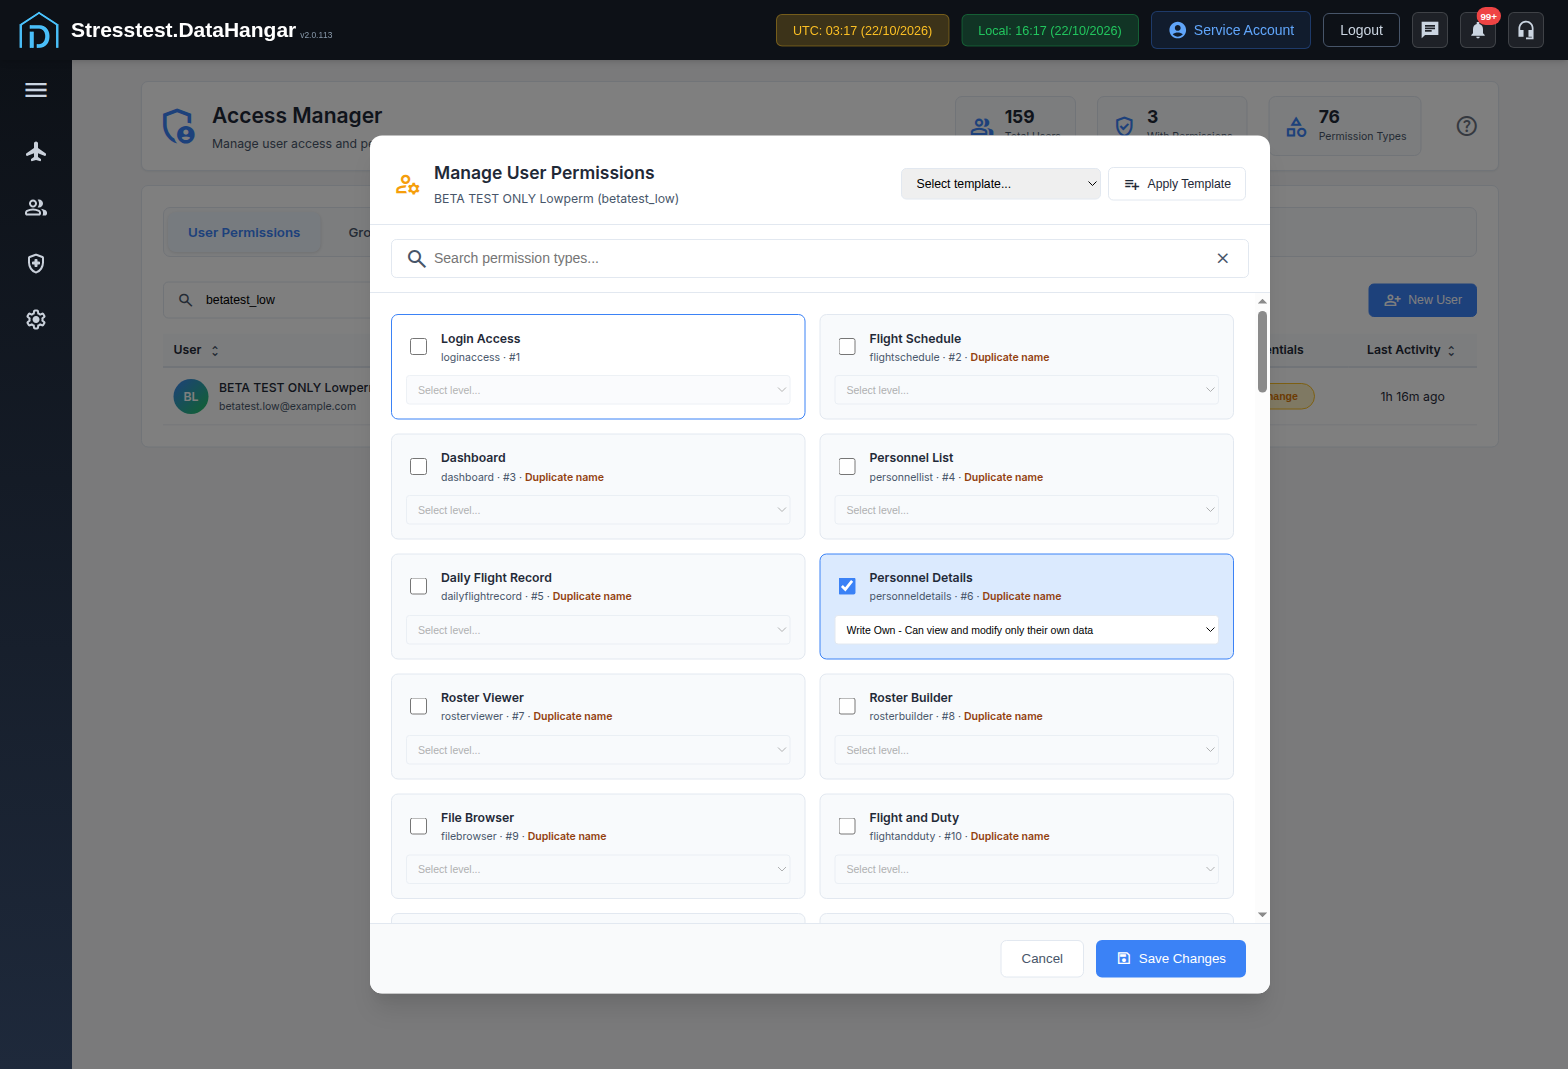
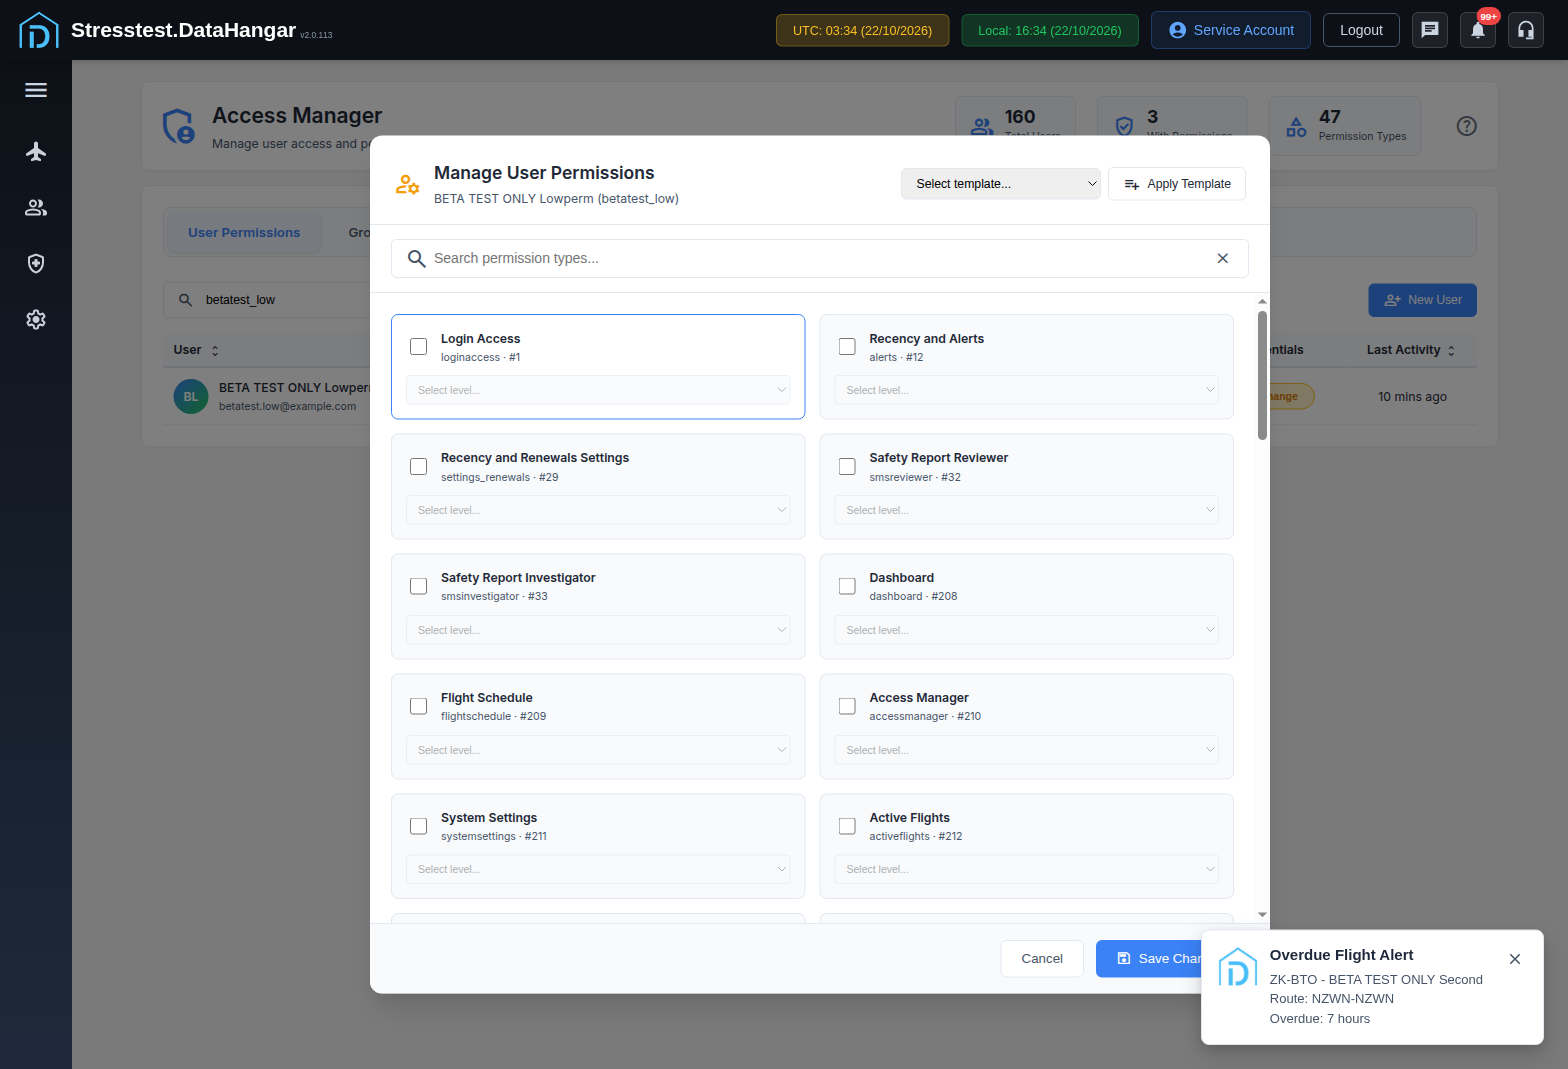
Access Manager retest 2: BUG-AM-005 duplicates removed, AM-018 passes

diff --git a/debugging/REPORT.md b/debugging/REPORT.md
@@ -1,6 +1,6 @@
 # DataHangar test run report (stresstest, v2.0.111)
 
-Generated from the checklist results and bug files on this branch. Testing is finished; see [TRACKER.md](TRACKER.md) for coverage (575 pass, 167 fail, 28 blocked, 19 N/A).
+Generated from the checklist results and bug files on this branch. Testing is finished; see [TRACKER.md](TRACKER.md) for coverage (576 pass, 166 fail, 28 blocked, 19 N/A).
 
 ## Summary
 
@@ -424,7 +424,7 @@ Steps:
 
 Expected: Each permission type shows once, or the cards are named or grouped clearly enough to tell them apart.
 
-Actual: 16 names are shown more than once, with no heading or hint to tell them apart: Flight Schedule (ids 2, 209), Dashboard (3, 208), Personnel List (4, 215), Daily Flight Record (5, 213), Personnel Details (6, 216), Roster Viewer (7, 217), Roster Builder (8, 223), File Browser (9, 225), Flight and Duty (10, 31, 218), Notices (11, 219), Safety Reports (13, 30, 221), Hazard Register (14, 222), System Settings (15, 211), Form Builder (16, 224), Exam Builder (18, 232), Access Manager (34, 210). The copies offer different levels: Flight Schedule id 2 offers RA/WA/G, id 209 offers A/RA/WG/RG. An admin can easily give the wrong one. This has a real effect: giving Lowperm the first "Notices" card (id 11) at WO still gives "Access Denied: You do not have permission to access Notices", so the module checks the other Notices card. The first "Flight Schedule" card (id 2) is the one that works for the schedule, so you cannot tell from the name which copy each page uses. Also, BETA TEST ONLY Second with Access Manager WA on one card and A on the other still gets 'You need All Access permission to access the access manager' (AM-018). Retest 22/10/2026 (v2.0.113, accessmanager/index.js?v=2.0.113): part fixed. Each card now shows its module key and id plus a 'Duplicate name' tag (e.g. 'accessmanager · #34 · Duplicate name' and 'accessmanager · #210 · Duplicate name'). But the same 16 names are still duplicated, and both copies show the same module key, so you still can't tell which one the module checks. AM-018 still fails: betatest_two has Access Manager #34=WA and #210=A and still gets 'Access Denied: You need All Access permission to access the access manager'.
+Actual: 16 names are shown more than once, with no heading or hint to tell them apart: Flight Schedule (ids 2, 209), Dashboard (3, 208), Personnel List (4, 215), Daily Flight Record (5, 213), Personnel Details (6, 216), Roster Viewer (7, 217), Roster Builder (8, 223), File Browser (9, 225), Flight and Duty (10, 31, 218), Notices (11, 219), Safety Reports (13, 30, 221), Hazard Register (14, 222), System Settings (15, 211), Form Builder (16, 224), Exam Builder (18, 232), Access Manager (34, 210). The copies offer different levels: Flight Schedule id 2 offers RA/WA/G, id 209 offers A/RA/WG/RG. An admin can easily give the wrong one. This has a real effect: giving Lowperm the first "Notices" card (id 11) at WO still gives "Access Denied: You do not have permission to access Notices", so the module checks the other Notices card. The first "Flight Schedule" card (id 2) is the one that works for the schedule, so you cannot tell from the name which copy each page uses. Also, BETA TEST ONLY Second with Access Manager WA on one card and A on the other still gets 'You need All Access permission to access the access manager' (AM-018). Retest 22/10/2026 (v2.0.113, accessmanager/index.js?v=2.0.113): part fixed. Each card now shows its module key and id plus a 'Duplicate name' tag (e.g. 'accessmanager · #34 · Duplicate name' and 'accessmanager · #210 · Duplicate name'). But the same 16 names are still duplicated, and both copies show the same module key, so you still can't tell which one the module checks. AM-018 still fails: betatest_two has Access Manager #34=WA and #210=A and still gets 'Access Denied: You need All Access permission to access the access manager'. Retest 2 22/10/2026 (v2.0.113): fixed. The permissions editor now has 47 cards (was 76), with no duplicate names or module keys; the 29 old ids (2-11, 13-28, 30, 31, 34) are gone and each module has one card (e.g. accessmanager #210, notices #219, flightschedule #209). AM-018 now passes: betatest_two (Access Manager #210=A) opens Access Manager, and in Roles the Admin checkbox is disabled ('Only admins can grant admin access'). betatest_grp still opens Flight Schedule, Notices, Roster Viewer and Daily Flight Record after the cleanup.
 
 Suspected cause: The permission types table has more than one row with the same display name (probably a second set added for a newer module version). The editor lists every row by name only, with no grouping or description.
 
@@ -432,6 +432,8 @@ Suspected cause: The permission types table has more than one row with the same 
 ![BUG-AM-005-2](bugs/screenshots/BUG-AM-005-2.png)
 ![BUG-AM-005-3](bugs/screenshots/BUG-AM-005-3.png)
 ![BUG-AM-005-4](bugs/screenshots/BUG-AM-005-4.png)
+![BUG-AM-005-5](bugs/screenshots/BUG-AM-005-5.png)
+![BUG-AM-005-6](bugs/screenshots/BUG-AM-005-6.png)
 
 ### BUG-AM-006: Access Manager has no Chat permission, so you can't give Chat to a non-admin user
 

diff --git a/debugging/bugs/BUG-AM-005.md b/debugging/bugs/BUG-AM-005.md
@@ -21,10 +21,10 @@
 Each permission type shows once, or the cards are named or grouped clearly enough to tell them apart.
 
 ## Actual
-16 names are shown more than once, with no heading or hint to tell them apart: Flight Schedule (ids 2, 209), Dashboard (3, 208), Personnel List (4, 215), Daily Flight Record (5, 213), Personnel Details (6, 216), Roster Viewer (7, 217), Roster Builder (8, 223), File Browser (9, 225), Flight and Duty (10, 31, 218), Notices (11, 219), Safety Reports (13, 30, 221), Hazard Register (14, 222), System Settings (15, 211), Form Builder (16, 224), Exam Builder (18, 232), Access Manager (34, 210). The copies offer different levels: Flight Schedule id 2 offers RA/WA/G, id 209 offers A/RA/WG/RG. An admin can easily give the wrong one. This has a real effect: giving Lowperm the first "Notices" card (id 11) at WO still gives "Access Denied: You do not have permission to access Notices", so the module checks the other Notices card. The first "Flight Schedule" card (id 2) is the one that works for the schedule, so you cannot tell from the name which copy each page uses. Also, BETA TEST ONLY Second with Access Manager WA on one card and A on the other still gets 'You need All Access permission to access the access manager' (AM-018). Retest 22/10/2026 (v2.0.113, accessmanager/index.js?v=2.0.113): part fixed. Each card now shows its module key and id plus a 'Duplicate name' tag (e.g. 'accessmanager · #34 · Duplicate name' and 'accessmanager · #210 · Duplicate name'). But the same 16 names are still duplicated, and both copies show the same module key, so you still can't tell which one the module checks. AM-018 still fails: betatest_two has Access Manager #34=WA and #210=A and still gets 'Access Denied: You need All Access permission to access the access manager'.
+16 names are shown more than once, with no heading or hint to tell them apart: Flight Schedule (ids 2, 209), Dashboard (3, 208), Personnel List (4, 215), Daily Flight Record (5, 213), Personnel Details (6, 216), Roster Viewer (7, 217), Roster Builder (8, 223), File Browser (9, 225), Flight and Duty (10, 31, 218), Notices (11, 219), Safety Reports (13, 30, 221), Hazard Register (14, 222), System Settings (15, 211), Form Builder (16, 224), Exam Builder (18, 232), Access Manager (34, 210). The copies offer different levels: Flight Schedule id 2 offers RA/WA/G, id 209 offers A/RA/WG/RG. An admin can easily give the wrong one. This has a real effect: giving Lowperm the first "Notices" card (id 11) at WO still gives "Access Denied: You do not have permission to access Notices", so the module checks the other Notices card. The first "Flight Schedule" card (id 2) is the one that works for the schedule, so you cannot tell from the name which copy each page uses. Also, BETA TEST ONLY Second with Access Manager WA on one card and A on the other still gets 'You need All Access permission to access the access manager' (AM-018). Retest 22/10/2026 (v2.0.113, accessmanager/index.js?v=2.0.113): part fixed. Each card now shows its module key and id plus a 'Duplicate name' tag (e.g. 'accessmanager · #34 · Duplicate name' and 'accessmanager · #210 · Duplicate name'). But the same 16 names are still duplicated, and both copies show the same module key, so you still can't tell which one the module checks. AM-018 still fails: betatest_two has Access Manager #34=WA and #210=A and still gets 'Access Denied: You need All Access permission to access the access manager'. Retest 2 22/10/2026 (v2.0.113): fixed. The permissions editor now has 47 cards (was 76), with no duplicate names or module keys; the 29 old ids (2-11, 13-28, 30, 31, 34) are gone and each module has one card (e.g. accessmanager #210, notices #219, flightschedule #209). AM-018 now passes: betatest_two (Access Manager #210=A) opens Access Manager, and in Roles the Admin checkbox is disabled ('Only admins can grant admin access'). betatest_grp still opens Flight Schedule, Notices, Roster Viewer and Daily Flight Record after the cleanup.
 
 ## Evidence
-- Screenshot: `screenshots/BUG-AM-005-1.png`, `screenshots/BUG-AM-005-2.png`, `screenshots/BUG-AM-005-3.png`, `screenshots/BUG-AM-005-4.png`
+- Screenshot: `screenshots/BUG-AM-005-1.png`, `screenshots/BUG-AM-005-2.png`, `screenshots/BUG-AM-005-3.png`, `screenshots/BUG-AM-005-4.png`, `screenshots/BUG-AM-005-5.png`, `screenshots/BUG-AM-005-6.png`
 - Console / network errors: none
 
 ## Suspected cause (optional)

diff --git a/debugging/checklists/04-access-manager.md b/debugging/checklists/04-access-manager.md
@@ -44,7 +44,7 @@ Result values: `TODO` · `PASS` · `FAIL` · `BLOCKED` · `N/A`. A `FAIL` must h
 | AM-015 | Activate a user with no credentials | 'User must have login credentials before activation' and Change Login Credentials opens | PASS | BUG-AM-007 | Retest 22/10/2026: a new customer from flightdetails (BETA TEST ONLY Cust2) starts Inactive |
 | AM-016 | Deactivate a user | Confirmation; user signed out everywhere; no delete option exists | PASS |  | Confirm 'Deactivate Login Access' then toast 'Login access deactivated for BETA TEST ONLY Lowperm'; no delete option anywhere. Sign-out effect: see LOG-017 |
 | AM-017 | Roles badge: tick/untick each role, Save Changes | Saved; hover on 'N Roles' lists them | PASS |  | Ticked Crew > Save Changes > toast 'User roles updated for BETA TEST ONLY Lowperm (1 role)', badge '1 Role', hover 'Active: Crew - Click to manage roles' |
-| AM-018 | Roles: Admin checkbox as non-admin | Greyed out ('Only admins can grant or revoke admin access') | FAIL | BUG-AM-005 | Retest 22/10/2026 (v2.0.113): still fails. betatest_two has Access Manager #34=WA and #210=A and still gets You need All Access permission to access the access manager |
+| AM-018 | Roles: Admin checkbox as non-admin | Greyed out ('Only admins can grant or revoke admin access') | PASS | BUG-AM-005 | Retest 2 22/10/2026 (v2.0.113): fixed. betatest_two (Access Manager #210=A) opens Access Manager; in Roles the Admin checkbox is disabled ('Only admins can grant admin access') |
 | AM-019 | Groups badge: toggle groups, search | On Roster auto-ticks when adding; Save replaces memberships | PASS | BUG-POP-003 | Retest 22/10/2026: fixed. Esc and Cancel warn about unsaved group changes; Discard and reopen shows saved memberships |
 | AM-020 | Permissions badge: tick a type | Level dropdown enables with first valid level; only levels from §15.1 offered | PASS | BUG-AM-004 | Retest 22/10/2026: fixed. All levels labelled, including WA and G |
 | AM-021 | Permissions: untick, search types, Save | Toast 'Permissions updated for First Last (N permissions)' | PASS |  | Toast 'Permissions updated for BETA TEST ONLY Lowperm (1 permissions)' (grammar: '1 permissions'); badge '1 Permission' |

diff --git a/debugging/bugs/BUGS_INDEX.md b/debugging/bugs/BUGS_INDEX.md
@@ -162,7 +162,7 @@
 | [BUG-SINT-001](BUG-SINT-001.md) | `SINT-S02` | Settings: Google Calendar Sync | Google Calendar Settings: Help and Add Calendar don't close with Escape or an outside click | Low | New | |
 | [BUG-SINT-002](BUG-SINT-002.md) | `SINT-S04` | Settings: Google Calendar Sync | Google Calendar Sync Status: flight dates show as 2024-01-01 07:55 instead of DD/MM/YYYY | Low | New | |
 | [BUG-SLOG-001](BUG-SLOG-001.md) | `SLOG-S04` | Settings: Activity Log | Activity Log: no page Help (?), and dates show as "22 Oct 2026, 02:51 am" | Low | New | |
-| [BUG-AM-005](BUG-AM-005.md) | `PERM-001` | Access Manager | Access Manager: 16 permission types appear twice with the same name (e.g. two "Flight Schedule" cards with different levels) | Medium | Open (retested 22/10/2026, part fixed) | |
+| [BUG-AM-005](BUG-AM-005.md) | `PERM-001` | Access Manager | Access Manager: 16 permission types appear twice with the same name (e.g. two "Flight Schedule" cards with different levels) | Medium | Fixed (verified 22/10/2026) | |
 | [BUG-FD-006](BUG-FD-006.md) | `FD-031` | Flight Details | Flight can be set to Complete with no times or destination on a leg; no 'Required Information' prompt | Medium | New | |
 | [BUG-FD-007](BUG-FD-007.md) | `DATE-005` | Flight Details | New flight defaults its leg date/time to UTC instead of local time | Medium | New | |
 | [BUG-PD-017](BUG-PD-017.md) | `PD-018` | Personnel Details | Personnel Details > Lesson Plans: an assigned plan is saved but never listed; the dialog's dates default to the UTC date | Medium | New | |

diff --git a/debugging/TRACKER.md b/debugging/TRACKER.md
@@ -12,7 +12,7 @@ Status: `TODO` · `IN PROGRESS` · `DONE` · `BLOCKED`
 | [01-login-auth](checklists/01-login-auth.md) | `LOG` | Login, 2FA, sessions, landing page | 25 | 19 | 0 | 1 | 0 | DONE |
 | [02-shell-navigation](checklists/02-shell-navigation.md) | `NAV` | Application shell, sidebar, header, mobile | 27 | 25 | 0 | 1 | 1 | DONE |
 | [03-common-conventions](checklists/03-common-conventions.md) | `CON` | Common screen conventions (apply on every page) | 22 | 17 | 5 | 0 | 0 | DONE |
-| [04-access-manager](checklists/04-access-manager.md) | `AM` | Access Manager (users, roles, groups, permissions, templates) | 38 | 35 | 2 | 0 | 0 | DONE |
+| [04-access-manager](checklists/04-access-manager.md) | `AM` | Access Manager (users, roles, groups, permissions, templates) | 38 | 36 | 1 | 0 | 0 | DONE |
 | [05-dashboard](checklists/05-dashboard.md) | `DSH` | Dashboard | 19 | 19 | 0 | 0 | 0 | DONE |
 | [06-flight-schedule](checklists/06-flight-schedule.md) | `FS` | Flight Schedule (incl. embedded Location Planner) | 40 | 30 | 8 | 1 | 1 | DONE |
 | [07-flight-details](checklists/07-flight-details.md) | `FD` | Flight Details | 44 | 37 | 7 | 0 | 8 | DONE |

diff --git a/debugging/BLOCKED_RETEST_CLEANUP.md b/debugging/BLOCKED_RETEST_CLEANUP.md
@@ -24,10 +24,3 @@
 - W&B: Rev 3 set back as Master (checked: "Revision 3, 1 aircraft"). Revs 4-6 stay as Approved history (the app has no delete for approved revisions)
 - Exam "BETA TEST ONLY Exam" instance for Second submitted and Graded (18% Fail); graded instances can't be removed (BUG-EXM-008)
 - Temporary Reports (A) permission on BETA TEST ONLY Second for RPT-002 (removed after the test; checked)
-
-
-## Access Manager retest (22/10/2026, v2.0.113)
-
-- Retained: customer BETA TEST ONLY Cust2 (betatest.cust2@example.com), created from flightdetails #42910 > Customer > New Customer to retest BUG-AM-007. Inactive, no login. Flight #42910 (Canceled) now has this customer on its Customer tab. There's no delete option in Access Manager.
-- Reverted: betatest_grp was given Chat (#249) A and Support Tickets (#245) WO for the test, then both were removed.
-- Not created: the New User tests (betatest_pw6 with a 6-character password, and root) were both rejected, so no users were added.
